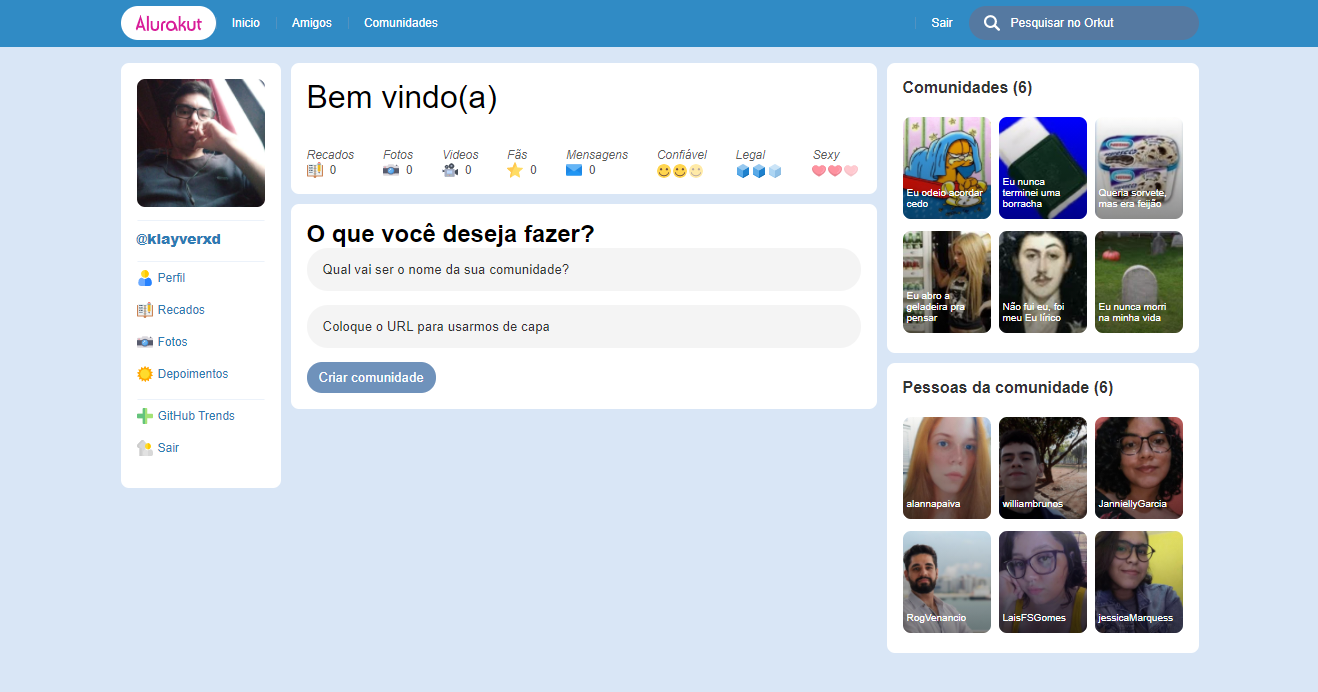
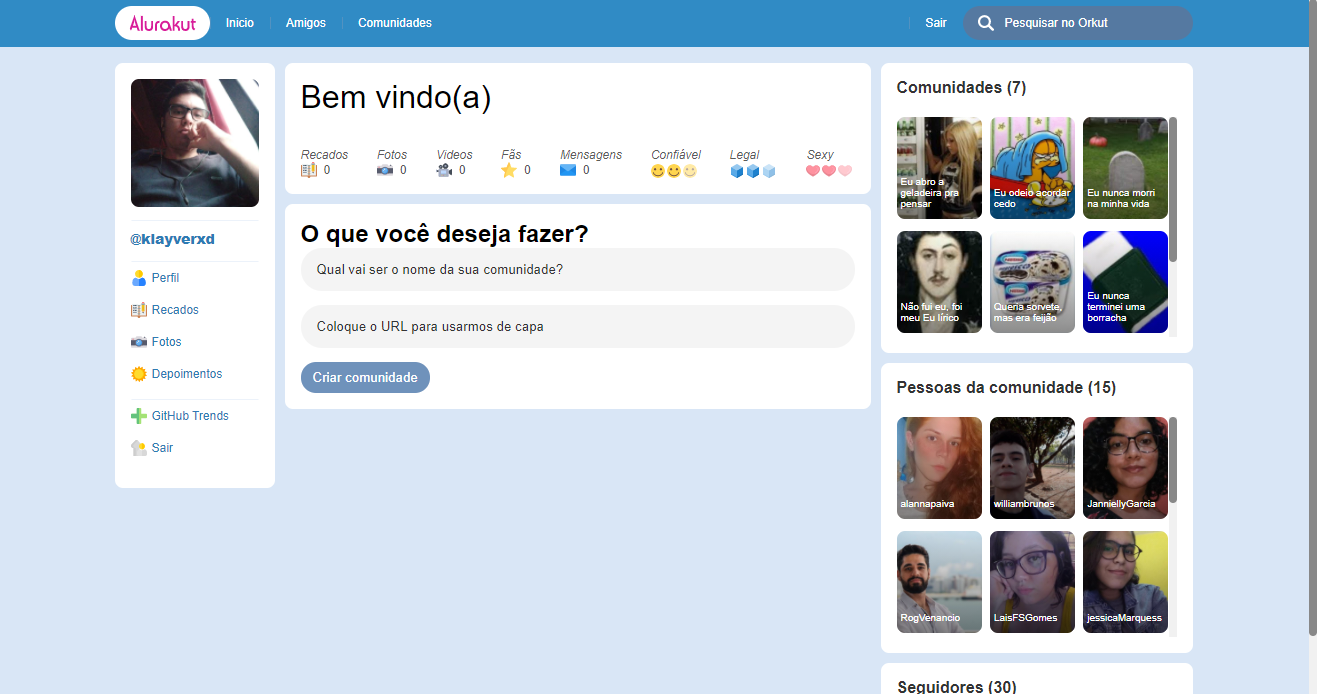
aula 05 - auth

diff --git a/pages/index.js b/pages/index.js
@@ -1,4 +1,6 @@
 import { useEffect, useState } from 'react'
+import nookies from 'nookies'
+import jwt from 'jsonwebtoken'
 
 import MainGrid from '../src/components/MainGrid'
 import Box from '../src/components/Box'
@@ -57,8 +59,8 @@ function ProfileRelationsBox({ items, title }) {
 	)
 }
 
-export default function Home() {
-	const githubUser = 'klayverxd'
+export default function Home(props) {
+	const githubUser = props.githubUser
 	const [communities, setCommunities] = useState([])
 	const pessoasFavoritas = [
 		'alannapaiva',
@@ -67,6 +69,15 @@ export default function Home() {
 		'RogVenancio',
 		'LaisFSGomes',
 		'jessicaMarquess',
+		'luanmooraes',
+		'rafaelizidorio',
+		'EmmanuelMoreira7',
+		'Pedynho',
+		'willianpraciano',
+		'Krymancer',
+		'netosouza22',
+		'thainarapenha',
+		'Fabriciox7',
 	]
 	const [followers, setFollowers] = useState([])
 	const [creatingCommunity, setCreatingCommunity] = useState(false)
@@ -97,7 +108,7 @@ export default function Home() {
 		fetch('https://graphql.datocms.com/', {
 			method: 'POST',
 			headers: {
-				Authorization: 'fb9583068205775106a0d01df0e196',
+				Authorization: '6c4d6ddb486be81d5454d74121ca1e',
 				'Content-Type': 'application/json',
 				Accept: 'application/json',
 			},
@@ -107,7 +118,7 @@ export default function Home() {
 				  id
 				  title
 				  imageUrl
-				  creatorSlug
+				  creatorslug
 				}
 			  }`,
 			}),
@@ -125,7 +136,7 @@ export default function Home() {
 
 		const community = {
 			...formCreateCommunity,
-			creatorSlug: githubUser,
+			creatorslug: githubUser,
 		}
 
 		fetch('/api/communities', {
@@ -194,7 +205,6 @@ export default function Home() {
 					className="profileRelationsArea"
 					style={{ gridArea: 'profileRelationsArea' }}
 				>
-					<ProfileRelationsBox items={followers} title="Seguidores" />
 					<ProfileRelationsBoxWrapper>
 						<h2 className="smallTitle">Comunidades ({communities.length})</h2>
 
@@ -229,8 +239,40 @@ export default function Home() {
 							})}
 						</ul>
 					</ProfileRelationsBoxWrapper>
+					<ProfileRelationsBox items={followers} title="Seguidores" />
 				</div>
 			</MainGrid>
 		</>
 	)
+}
+
+export async function getServerSideProps(context) {
+	const cookies = nookies.get(context)
+	const token = cookies.USER_TOKEN
+
+	const { isAuthenticated } = await fetch(
+		'https://alurakut.vercel.app/api/auth',
+		{
+			headers: {
+				Authorization: token,
+			},
+		}
+	).then(resposta => resposta.json())
+
+	if (isAuthenticated) {
+		return {
+			redirect: {
+				destination: '/login',
+				permanent: false,
+			},
+		}
+	}
+
+	const { githubUser } = jwt.decode(token)
+
+	return {
+		props: {
+			githubUser,
+		},
+	}
 }

diff --git a/pages/login.js b/pages/login.js
@@ -1,0 +1,98 @@
+import React, { useState } from 'react'
+import { useRouter } from 'next/router'
+
+import nookies from 'nookies'
+
+export default function LoginScreen() {
+	const router = useRouter()
+	const [githubUser, setGithubUser] = useState('klayverxd')
+	const [login, setLogin] = useState(false)
+
+	function handleLogin(e) {
+		setLogin(true)
+		e.preventDefault()
+
+		fetch('https://alurakut.vercel.app/api/login', {
+			method: 'POST',
+			headers: {
+				'Content-Type': 'application/json',
+			},
+			body: JSON.stringify({ githubUser: githubUser }),
+		}).then(async respostaDoServer => {
+			const dadosDaResposta = await respostaDoServer.json()
+			const token = dadosDaResposta.token
+
+			nookies.set(null, 'USER_TOKEN', token, {
+				path: '/',
+				maxAge: 86400 * 7,
+			})
+
+			setLogin(false)
+			router.push('/')
+		})
+	}
+
+	return (
+		<main
+			style={{
+				display: 'flex',
+				flex: 1,
+				alignItems: 'center',
+				justifyContent: 'center',
+			}}
+		>
+			<div className="loginScreen">
+				<section className="logoArea">
+					<img src="https://alurakut.vercel.app/logo.svg" />
+
+					<p>
+						<strong>Conecte-se</strong> aos seus amigos e familiares usando
+						recados e mensagens instantâneas
+					</p>
+					<p>
+						<strong>Conheça</strong> novas pessoas através de amigos de seus
+						amigos e comunidades
+					</p>
+					<p>
+						<strong>Compartilhe</strong> seus vídeos, fotos e paixões em um só
+						lugar
+					</p>
+				</section>
+
+				<section className="formArea">
+					<form className="box" onSubmit={handleLogin}>
+						<p>
+							Acesse agora mesmo com seu usuário do <strong>GitHub</strong>!
+						</p>
+						<input
+							placeholder="Usuário"
+							value={githubUser}
+							onChange={e => {
+								setGithubUser(e.target.value)
+							}}
+						/>
+						{githubUser.length === 0 && 'Preencha o campo'}
+						<button type="submit">{login ? 'Loading..' : 'Login'}</button>
+					</form>
+
+					<footer className="box">
+						<p>
+							Ainda não é membro? <br />
+							<a href="/login">
+								<strong>ENTRAR JÁ</strong>
+							</a>
+						</p>
+					</footer>
+				</section>
+
+				<footer className="footerArea">
+					<p>
+						© 2021 alura.com.br - <a href="/">Sobre o Orkut.br</a> -{' '}
+						<a href="/">Centro de segurança</a> - <a href="/">Privacidade</a> -{' '}
+						<a href="/">Termos</a> - <a href="/">Contato</a>
+					</p>
+				</footer>
+			</div>
+		</main>
+	)
+}

diff --git a/pages/api/communities.js b/pages/api/communities.js
@@ -4,11 +4,11 @@ import { SiteClient } from 'datocms-client'
 
 export default async function getRequests(request, response) {
 	if (request.method === 'POST') {
-		const TOKEN = 'fddef0dc27fd32f32e585e94b84bef'
+		const TOKEN = 'ba3742e60773e7d425ce255028887b'
 		const client = new SiteClient(TOKEN)
 
 		const record = await client.items.create({
-			itemType: '970975', //model ID
+			itemType: '966545', //model ID
 			...request.body,
 		})
 
